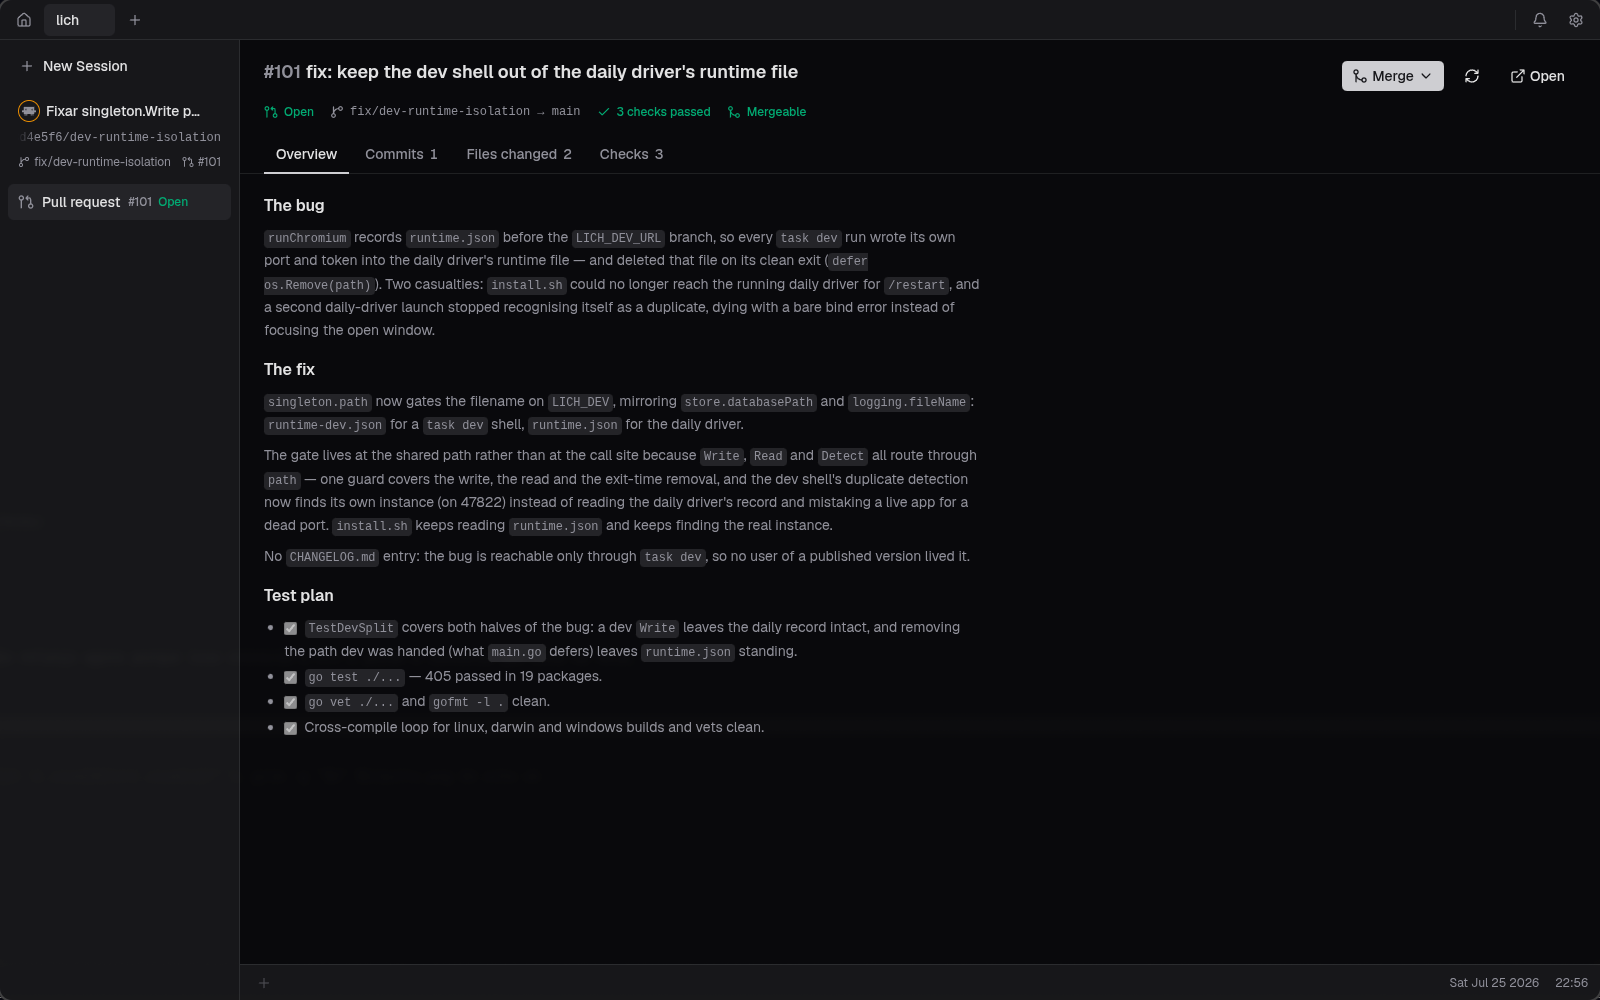
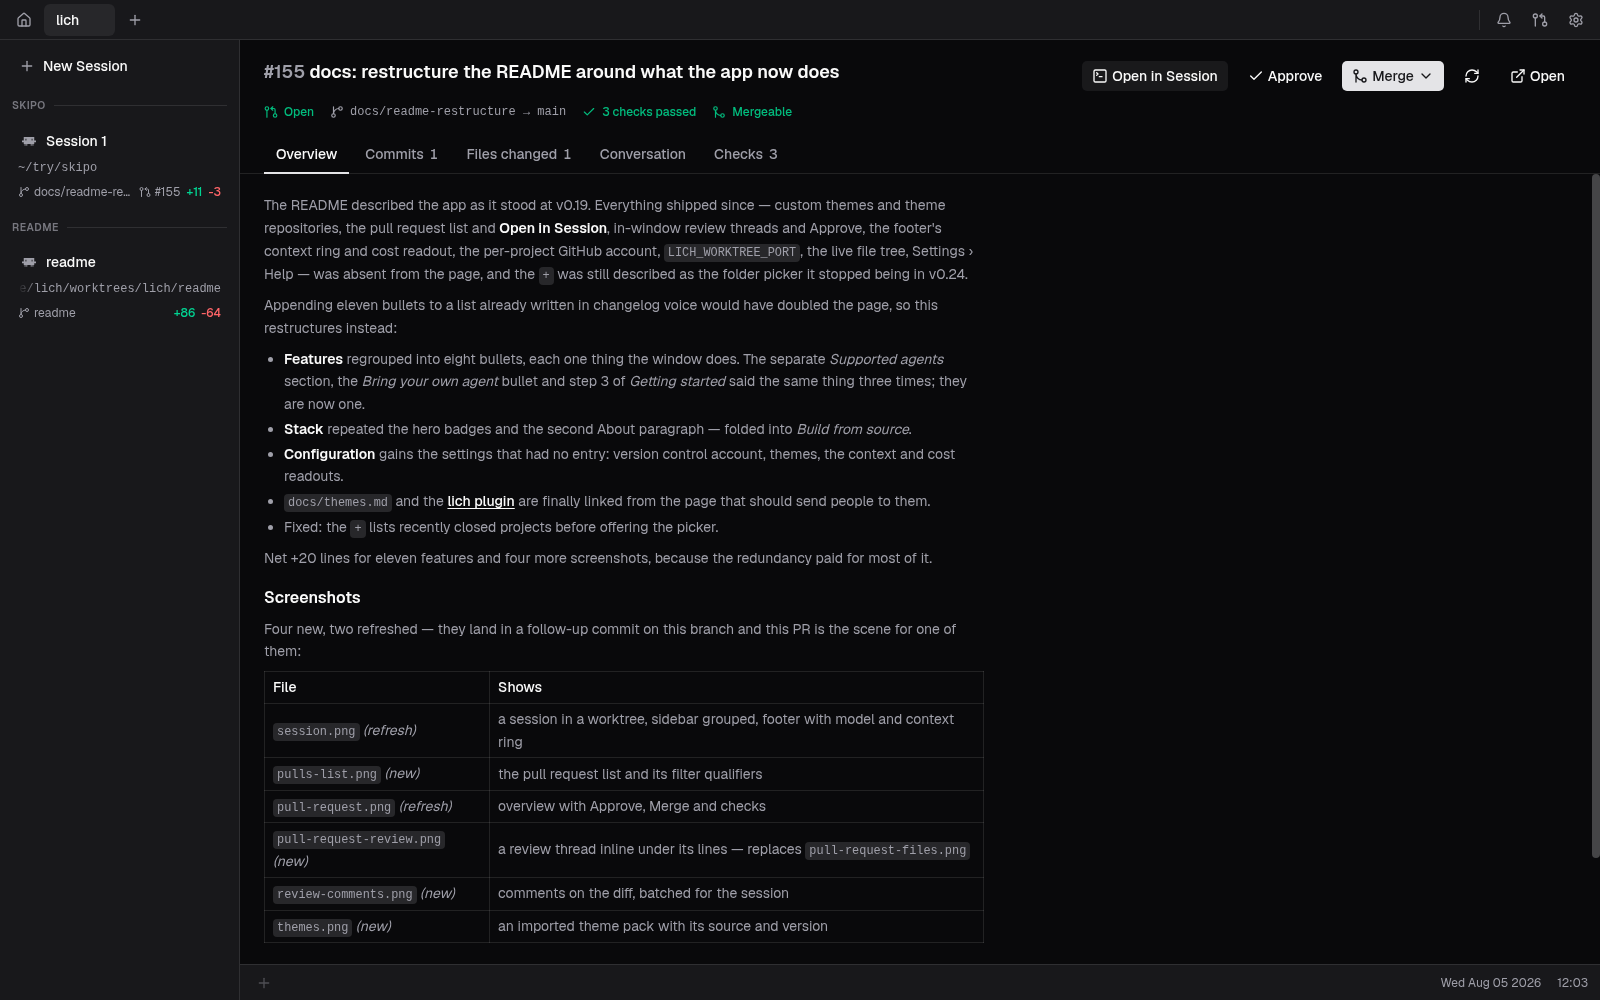
docs: restructure the README around what the app now does (#155)
* docs: restructure the README around what the app now does

The README still described the app as it stood at v0.19: themes, the pull
request list, in-window review, the context and cost readouts, the per-project
GitHub account and the worktree dev-server port had all shipped since and were
nowhere on the page, while the "+" was still described as the folder picker it
stopped being in v0.24.

Rather than append eleven bullets to a page already written in changelog voice,
the feature list is regrouped into eight, each one thing the window does, and
the three places that separately explained how to point lich at an agent are now
one. The Stack section, which repeated the badges and the About paragraph, is
folded into Build from source. Configuration gains the settings that had no
entry, and docs/themes.md and the hook contracts are finally linked from the
page that should send people there.

The images this commit references land in the next one.

* docs: show the themes, the pull request list and a review in the README

Four new screenshots and two refreshed, all taken against this repository at
1600x1000 so they sit beside each other: a session with the footer's model and
context ring, the pull request list under a GitHub qualifier, this pull request
read in place, a review comment pending on its diff, comments batched for a
session, and a theme pack installed from a git repository.

pull-request-files.png goes: the review shot covers the changed-files view and
[…]

diff --git a/README.md b/README.md
@@ -7,8 +7,8 @@
   <p><strong>A terminal-first harness for coding with AI agents.</strong></p>
   <p>
     Open your projects, run agents like Claude Code, Codex, opencode or Crush in
-    real terminals, and keep git — worktrees and all — in view without leaving
-    the window.
+    real terminals, and keep git — worktrees, diffs and pull requests — in view
+    without leaving the window.
   </p>
   <p>
     <a href="https://github.com/omartelo/lich/releases"><img alt="Release" src="https://img.shields.io/github/v/release/omartelo/lich?color=4285F4&label=release" /></a>
@@ -17,7 +17,7 @@
     <img alt="Platform" src="https://img.shields.io/badge/platform-Linux%20%7C%20macOS%20%7C%20Windows-333" />
     <a href="LICENSE"><img alt="License" src="https://img.shields.io/badge/license-AGPL--3.0-blue" /></a>
   </p>
-  <img src="docs/media/session.png" alt="A Claude Code session running in a lich worktree, with the session card showing its branch and diff badge" width="900" />
+  <img src="docs/media/session.png" alt="A Claude Code session running in a lich worktree, with the session card showing its branch and diff badge and the footer showing the model and context ring" width="900" />
 </div>
 
 ## About
@@ -25,59 +25,79 @@
 `lich` is a **personal harness** — a desktop app that wraps a terminal-first
 workspace around AI coding agents. Open several projects, run a session (or
 many) per project, drive an agent in each, and watch git state — branches,
-diffs, worktrees — without ever leaving the window.
-
-It ships as a single static Go binary that opens its UI in your system's
-Chromium-family browser in `--app` mode — no Electron, no bundled webview
-(decision record: [`docs/chromium-shell.md`](docs/chromium-shell.md)).
+diffs, worktrees, pull requests — without ever leaving the window. It ships as a
+single static Go binary that opens its UI in your system's Chromium-family
+browser in `--app` mode — no Electron, no bundled webview (decision record:
+[`docs/chromium-shell.md`](docs/chromium-shell.md)).
 
 It is deliberately bespoke: shaped by the author's taste for other harnesses
 (Warp and friends), built for one workflow rather than as a generic product.
 It's public because there's no reason to hide it, not because it's a supported
 release.
 
-## Supported agents
-
-Drive any of them — set the binary path in Settings and pick which one new
-sessions default to:
-
-- **[Claude Code](https://www.anthropic.com/claude-code)** — Anthropic
-- **[Codex](https://github.com/openai/codex)** — OpenAI
-- **[opencode](https://github.com/sst/opencode)** — SST
-- **[Crush](https://github.com/charmbracelet/crush)** — Charm
-
 ## Features
 
-- **Bring your own agent.** The four above are all first-class. Point lich at
-  each binary in Settings, choose a default, or pick per session.
+- **Bring your own agent.** [Claude Code](https://www.anthropic.com/claude-code)
+  (Anthropic), [Codex](https://github.com/openai/codex) (OpenAI),
+  [opencode](https://github.com/sst/opencode) (SST) and
+  [Crush](https://github.com/charmbracelet/crush) (Charm) are all first-class:
+  point lich at each binary in Settings, pick the default, or choose per session.
 - **Terminal-first sessions.** Real PTY-backed shells, several per project,
-  rendered by xterm.js on the GPU (WebGL). Search the scrollback (`Ctrl+F`), and
-  it survives a full page reload; terminal text size is its own setting.
-- **Multi-project workspace.** Open projects through the OS folder picker and
-  switch between them on a top tab bar. A project can sit with no session at all.
-- **Git worktrees, built in.** Spin up a worktree from any base branch — search
-  it, local or remote, even across dozens of branches — and lich seeds the new
-  checkout with your gitignored `.env*` files and runs a per-project setup
-  script before the agent starts. The sidebar groups sessions by the worktree
-  they belong to, and a kept worktree's session is ready to resume later.
-- **Review without leaving.** A CodeMirror diff dock shows the working changes;
-  collapse or expand every file at once, and attach files to a session.
-- **Pull requests in the window.** A branch with an open pull request carries its
-  number on the session card. The pull request screen reads its status, checks,
-  commits and full diff, and merges it — squash, merge commit or rebase — without
-  reaching for a browser.
-- **Live git at a glance.** Session cards carry the working directory, current
-  branch, a diff badge and an untracked-line count; a Warp-style footer follows
-  `cd` and surfaces git status.
-- **Command palette.** `Ctrl`/`Cmd`+`K` to jump between sessions and projects.
-- **Notifications.** A session waiting on your input raises a toast and a dot on
-  the bell, collected in a titled dropdown.
+  rendered by xterm.js on the GPU (WebGL). Search the scrollback (`Ctrl+F`); the
+  buffer survives a full page reload. A Warp-style footer follows `cd` and
+  surfaces git status, and for a Claude session it names the model, fills a ring
+  with the context window in use, and — if you ask it to — prices what the
+  session has spent.
+- **Projects and sessions.** Projects sit on a top tab bar; the `+` reopens one
+  you recently closed or opens the OS folder picker for the rest. Session cards
+  carry the working directory, branch, a diff badge, an untracked-line count and
+  the number of the branch's pull request.
+- **Git worktrees, built in.** Spin one up from any base branch — search it,
+  local or remote, even across dozens of branches — and lich seeds the new
+  checkout with your gitignored `.env*` files, hands it a stable dev-server port
+  derived from its path (`LICH_WORKTREE_PORT`) and runs a per-project setup
+  script before the agent starts. The sidebar groups sessions by the worktree they belong to, and a kept
+  worktree's session resumes its conversation later.
+- **Review, and hand the review back.** A CodeMirror diff dock shows the working
+  changes beside a live file tree — collapse or expand every file at once, open
+  one in your editor, attach one to the session. Right-click a selection to write
+  a comment against those lines; the batch is handed over as a single prompt,
+  pasted into the session unsent.
 
 <div align="center">
-  <img src="docs/media/pull-request.png" alt="The pull request screen: state, checks, mergeability and the pull request body" width="900" />
-  <p><em>The branch's pull request, read and merged in place.</em></p>
-  <img src="docs/media/pull-request-files.png" alt="The pull request's changed files, rendered as a CodeMirror diff with a file tree" width="900" />
-  <p><em>Its diff, file by file.</em></p>
+  <img src="docs/media/review-comments.png" alt="The review dock with two comments written against lines of the diff, collected at the foot of the panel" width="900" />
+  <p><em>Comments written on the diff, handed to the session as one prompt.</em></p>
+</div>
+
+- **Pull requests, end to end.** A button in the tab bar lists the repository's
+  open pull requests — quick filters plus GitHub's own qualifiers (`is:draft`,
+  `review:approved`, `is:merged`) — and **Open in Session** checks one out into
+  its own worktree. A pull request opens full-screen: overview, checks, commits
+  and the whole diff beside a file tree. Review it where you read it — a thread
+  opens inline under the line it is about, and your own comments wait as pending
+  until **Submit review** sends them together — approve it, and merge it (squash,
+  merge commit or rebase) with the methods the base branch actually accepts.
+- **Themes, yours or someone else's.** Bundled light and dark, plus imported JSON
+  that recolors the interface and the terminal palette independently. Install a
+  pack from a git repository and update it in place when it ships a new version;
+  **Save template** writes a starter naming every supported color. Format and
+  repository layout: [`docs/themes.md`](docs/themes.md).
+- **The rest of the window.** `Ctrl`/`Cmd`+`K` jumps between sessions and
+  projects. A session waiting on your input raises a toast and a dot on the bell,
+  collected in a titled dropdown; with the
+  [lich plugin](https://github.com/omartelo/lich-plugin) installed, a Claude
+  session also titles its own card and refreshes git the moment it writes a file.
+  Settings › Help opens the log folder and a pre-filled bug report.
+
+<div align="center">
+  <img src="docs/media/pulls-list.png" alt="The pull request list: every open pull request with its author, age and check status, narrowed by a filter box" width="900" />
+  <p><em>The repository's pull requests, filtered by GitHub's own qualifiers.</em></p>
+  <img src="docs/media/pull-request.png" alt="The pull request screen: state, checks, mergeability and the pull request body, with Approve and Merge in the header" width="900" />
+  <p><em>Read, approved and merged in place.</em></p>
+  <img src="docs/media/pull-request-review.png" alt="A comment written on the pull request's diff, sitting inline under the lines it is about and marked as pending until the review is submitted" width="900" />
+  <p><em>A review written on the diff itself — each comment pending until you submit them together.</em></p>
+  <img src="docs/media/themes.png" alt="Settings, Appearance: the bundled themes beside an imported pack showing the repository it came from and its version" width="900" />
+  <p><em>A theme pack installed from a git repository, updated in place.</em></p>
 </div>
 
 ## Install
@@ -104,10 +124,10 @@ hand.
 ## Getting started
 
 1. **Install** and launch `lich`.
-2. **Open a project** — the `+` opens your OS folder picker; point it at a git
-   repository.
-3. **Point lich at your agent** — in Settings, set the binary path for Claude
-   Code, Codex, opencode or Crush, and choose a default.
+2. **Open a project** — the `+` in the tab strip lists what you closed recently
+   and opens your OS folder picker; point it at a git repository.
+3. **Point lich at your agent** — in Settings › Providers, set the binary path
+   for Claude Code, Codex, opencode or Crush, and choose a default.
 4. **Start a session** — *New Session* spawns a terminal running your agent in
    the project.
 5. **Branch off a worktree** *(optional)* — create one from any base branch;
@@ -116,13 +136,19 @@ hand.
 ## Configuration
 
 - **Agents** — set each provider's binary path in Settings, and pick which one
-  new sessions default to.
+  new sessions default to. Claude Code's section also holds the footer's context
+  ring and its cost readout — the cost one off by default, since the figure only
+  means something when you are billed per token.
 - **Worktrees** — a per-project setup script (Settings › Worktree) runs in a new
   worktree's terminal ahead of the agent; a `.worktreeinclude` file tunes which
   gitignored files get copied over.
-- **Appearance & hotkeys** — configured in Settings; UI preferences persist in
-  `localStorage` under `lich.*` keys (inside lich's Chromium profile at
-  `~/.config/lich/chromium-profile`).
+- **Version control** — a project can name the GitHub account `gh` runs as
+  (Settings › Version Control), for a repository only one of your accounts can
+  see. It governs what lich reads from GitHub, not what git pushes.
+- **Appearance & hotkeys** — themes, fonts and key combos in Settings; UI
+  preferences persist in `localStorage` under `lich.*` keys (inside lich's
+  Chromium profile at `~/.config/lich/chromium-profile`), imported themes as JSON
+  under `<config-dir>/lich/themes`.
 - **Workspace** — projects and sessions persist in SQLite at
   `<config-dir>/lich/lich.db`. Closing a session does not delete it.
 
@@ -132,12 +158,16 @@ Everything runs on your machine. No account, no sign-in, no telemetry — the
 backend is a token-authenticated loopback listener, and nothing leaves
 `localhost` except the update check: a version ping to GitHub Releases at startup
 and hourly. Updates apply in place on Windows/macOS and through the AUR on Arch.
+Settings › Help says what the log file carries — paths, project and branch names,
+your gh login, never a session token — before you attach it to a bug report.
 
 ## Build from source
 
-Prerequisites: **Go 1.25+**, **Node + pnpm**, **[Task](https://taskfile.dev)**.
-No C toolchain, no system dev libraries — the binary is pure Go
-(`CGO_ENABLED=0`).
+Pure-Go backend (Go 1.25, `CGO_ENABLED=0`) serving an embedded React 18 /
+TypeScript / Vite frontend over a token-authenticated loopback listener (HTTP RPC
++ WebSockets). Terminals are xterm.js with the WebGL addon; the code and diff
+surfaces are CodeMirror 6. Prerequisites are **Go 1.25+**, **Node + pnpm** and
+**[Task](https://taskfile.dev)** — no C toolchain, no system dev libraries.
 
 ```bash
 task dev      # hot-reload dev mode (Vite on :9245)
@@ -152,14 +182,6 @@ Package a Linux release locally (needs
 ```bash
 task package   # .deb + .rpm + Arch .pkg.tar.zst in bin/
 ```
-
-## Stack
-
-Pure-Go backend (Go 1.25, `CGO_ENABLED=0`) serving an embedded React 18 /
-TypeScript / Vite frontend to a system Chromium window over a token-authenticated
-loopback listener (HTTP RPC + WebSockets). Terminals are xterm.js with the WebGL
-addon; the code/diff dock is CodeMirror 6. See
-[`docs/chromium-shell.md`](docs/chromium-shell.md) for how it got this way.
 
 ## License
 
